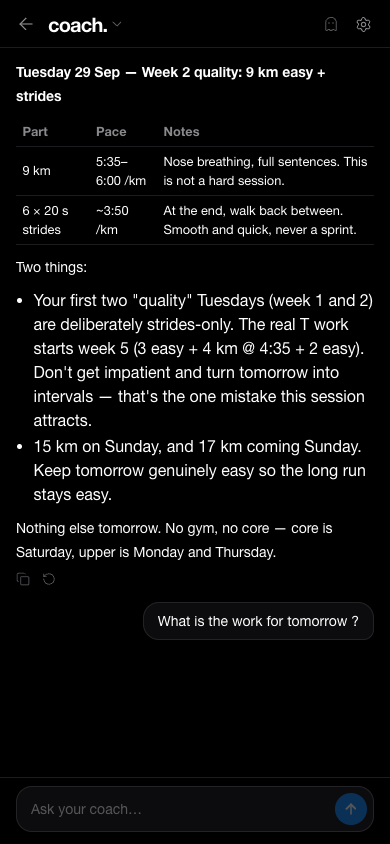
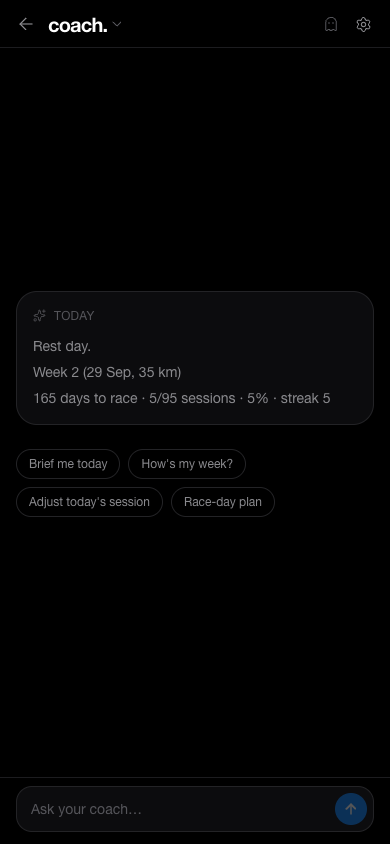
docs: replace coach screenshot with today card and week review

diff --git a/README.md b/README.md
@@ -8,14 +8,14 @@ A personal PWA for a 14 March 2027 marathon plan: this week's sessions, a wall o
 **Source:** private. This repo is the case study.
 
 <p align="center">
-  <img src="screenshots/01-login.png" width="300" alt="Login screen" />
-  &nbsp;&nbsp;
-  <img src="screenshots/02-tracker.png" width="300" alt="This week: sessions and progress" />
+  <img src="screenshots/01-login.png" width="250" alt="Login screen" />
+  <img src="screenshots/02-tracker.png" width="250" alt="This week: sessions and progress" />
+  <img src="screenshots/03-wall.png" width="250" alt="The wall: one dot per session" />
 </p>
 <p align="center">
-  <img src="screenshots/03-wall.png" width="300" alt="The wall: one dot per session" />
+  <img src="screenshots/04-coach.png" width="250" alt="Coach: today card and quick prompts" />
   &nbsp;&nbsp;
-  <img src="screenshots/04-coach.png" width="300" alt="Coach: answering what tomorrow's session is" />
+  <img src="screenshots/05-coach-week.png" width="250" alt="Coach: reviewing the week" />
 </p>
 
 ## What it does
